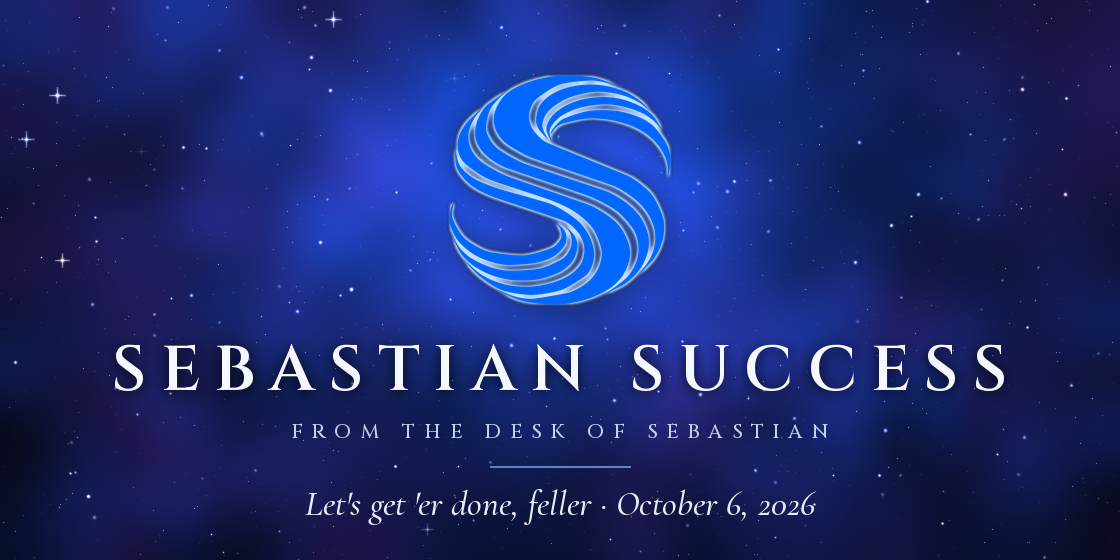
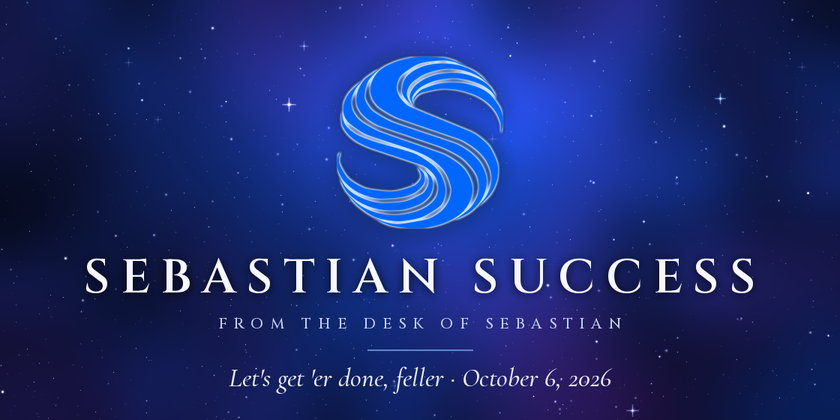
Shrink Sebastian Success email assets so they can be embedded
Flare-based star twinkles and 1.5x output bring the banner from 460 KB
to 115 KB; divider and signature shrink to 17 KB and 4 KB.

Claude-Session: https://claude.ai/code/session_01WdgJS6hTCDwsnRJof5pdmQ

diff --git a/email-templates/sebastian-success/build.py b/email-templates/sebastian-success/build.py
@@ -6,7 +6,7 @@ Renders:
   out/sig.png      handwritten-style signature
 
 Usage:  python3 build.py ["Script line on the banner"]
-Needs Pillow, numpy and ffmpeg. Fonts (all SIL OFL) are fetched once into ./fonts.
+Needs Pillow, numpy and ffmpeg; gifsicle (optional) shrinks the GIFs. Fonts (all SIL OFL) are fetched once into ./fonts.
 """
 import math
 import os
@@ -17,7 +17,7 @@ import tempfile
 import urllib.request
 
 import numpy as np
-from PIL import Image, ImageDraw, ImageFilter, ImageFont
+from PIL import Image, ImageDraw, ImageFilter, ImageFont, ImageOps
 
 HERE = os.path.dirname(os.path.abspath(__file__))
 FONTS = os.path.join(HERE, "fonts")
@@ -31,8 +31,9 @@ FONT_URLS = {
 }
 
 W, H = 1120, 560          # hero rendered at 2x, shown at 560x280
-FRAMES = 36
-FRAME_MS = 70
+FRAMES = 24
+FRAME_MS = 90
+HERO_OUT_W = 840        # 1.5x of the 560px display width; keeps the GIF small enough to embed
 BRAND_BLUE = (5, 102, 255)
 
 
@@ -73,8 +74,8 @@ def space_background(rng):
     t = yy / H
     base += np.stack([4 + 6 * (1 - t), 8 + 10 * (1 - t), 22 + 28 * (1 - t)], -1)
     # nebula clouds: blue and violet, kept faint so text stays crisp
-    n1 = soft_noise(rng, H, W, 90) * soft_noise(rng, H, W, 40)
-    n2 = soft_noise(rng, H, W, 120) * soft_noise(rng, H, W, 50)
+    n1 = soft_noise(rng, H, W, 110) * soft_noise(rng, H, W, 70)
+    n2 = soft_noise(rng, H, W, 140) * soft_noise(rng, H, W, 80)
     base += n1[..., None] * np.array([10, 60, 170], np.float32) * 0.9
     base += n2[..., None] * np.array([90, 30, 140], np.float32) * 0.7
     # glow behind the logo
@@ -112,6 +113,12 @@ def add_sprite(img, x, y, sprite, color, amp):
     img[y0 + ys0:y0 + ys1, x0 + xs0:x0 + xs1] += patch
 
 
+def flare(f, start, dur):
+    """0 outside a star's flare window, a smooth 0->1->0 bump inside it (wraps around the loop)."""
+    p = (f - start) % FRAMES
+    return math.sin(math.pi * (p + 1) / (dur + 1)) ** 2 if p < dur else 0.0
+
+
 def load_logo(size):
     logo = Image.open(LOGO).convert("RGBA")
     logo = logo.crop(logo.getbbox())
@@ -131,22 +138,21 @@ def build_hero(script_line):
 
     star_colors = [(255, 255, 255), (190, 215, 255), (255, 236, 205), (170, 200, 255)]
     twinklers = []
-    for _ in range(170):
+    for _ in range(150):
         twinklers.append(dict(
             x=rng.random() * W, y=rng.random() * H,
             r=0.7 + rng.random() * 0.9,
             col=star_colors[rng.integers(len(star_colors))],
-            base=0.25 + rng.random() * 0.35,
-            amp=0.5 + rng.random() * 0.6,
-            k=int(rng.integers(1, 3)),          # cycles per loop -> seamless
-            ph=rng.random() * 2 * math.pi))
+            base=0.3 + rng.random() * 0.3,
+            amp=0.6 + rng.random() * 0.6,
+            start=int(rng.integers(FRAMES)), dur=int(rng.integers(4, 7))))
     sparkles = []
-    for _ in range(14):
+    for _ in range(16):
         sparkles.append(dict(
             x=rng.random() * W, y=rng.random() * H,
             r=1.3 + rng.random() * 0.8,
             col=star_colors[rng.integers(len(star_colors))],
-            k=1, ph=rng.random() * 2 * math.pi))
+            start=int(rng.integers(FRAMES)), dur=8))
     # keep the brightest sparkles clear of the text block
     sparkles = [s for s in sparkles if not (280 < s["y"] < 500 and 120 < s["x"] < W - 120)]
 
@@ -186,28 +192,28 @@ def build_hero(script_line):
         t = f / FRAMES
         img = bg.copy()
         for s in twinklers:
-            a = s["base"] + s["amp"] * (0.5 + 0.5 * math.sin(2 * math.pi * s["k"] * t + s["ph"])) ** 3
+            a = s["base"] + s["amp"] * flare(f, s["start"], s["dur"])
             add_sprite(img, s["x"], s["y"], star_sprite(s["r"], False), s["col"], a)
         for s in sparkles:
-            a = 0.15 + 0.95 * (0.5 + 0.5 * math.sin(2 * math.pi * t + s["ph"])) ** 4
+            a = 0.2 + 0.9 * flare(f, s["start"], s["dur"])
             add_sprite(img, s["x"], s["y"], star_sprite(s["r"] * (0.8 + 0.5 * a), True), s["col"], a)
-        # shooting star across the upper right, frames 6..18
-        st = (f - 6) / 12
+        # shooting star across the upper right, frames 4..12
+        st = (f - 4) / 8
         if 0 <= st <= 1:
             hx, hy = 760 + 300 * st, 40 + 110 * st
-            for i in range(40):
-                fade = (1 - i / 40) * math.sin(math.pi * st)
-                add_sprite(img, hx - i * 5.2, hy - i * 1.9, star_sprite(0.9, False),
-                           (230, 240, 255), fade * 0.9)
+            for i in range(150):     # dense samples so the trail reads as one streak
+                fade = (1 - i / 150) ** 1.5 * math.sin(math.pi * st)
+                add_sprite(img, hx - i * 1.4, hy - i * 0.51, star_sprite(0.8, False),
+                           (230, 240, 255), fade * 0.45)
             add_sprite(img, hx, hy, star_sprite(1.4, True), (255, 255, 255), math.sin(math.pi * st))
 
         frame = Image.fromarray(np.clip(img, 0, 255).astype(np.uint8)).convert("RGBA")
         frame = Image.alpha_composite(frame, halo)
         frame = Image.alpha_composite(frame, rim)
 
-        # glint sweeping across the logo, frames 20..32
+        # glint sweeping across the logo, frames 14..21
         la = logo_arr.copy()
-        gt = (f - 20) / 12
+        gt = (f - 14) / 7
         if 0 <= gt <= 1:
             yy, xx = np.mgrid[0:logo.height, 0:logo.width].astype(np.float32)
             band = (xx + yy * 0.6) - (gt * (logo.width + logo.height * 0.6 + 120) - 60)
@@ -217,16 +223,16 @@ def build_hero(script_line):
 
         frame = Image.alpha_composite(frame, shadow)
         frame = Image.alpha_composite(frame, text)
-        frames.append(frame.convert("RGB"))
+        frames.append(frame.convert("RGB").resize((HERO_OUT_W, HERO_OUT_W // 2), Image.LANCZOS))
     return frames
 
 
 def build_divider():
-    w, h = 1200, 36
+    w, h = 900, 27     # 1.5x of the 600x18 display size
     rng = np.random.default_rng(3)
     xs = np.linspace(0, 1, w)
-    pts = [(int(rng.random() * w), 0.6 + rng.random() * 0.8, rng.random() * 2 * math.pi)
-           for _ in range(16)]
+    pts = [(int(40 + rng.random() * (w - 80)), 0.7 + rng.random() * 0.8, int(rng.integers(FRAMES)))
+           for _ in range(14)]
     frames = []
     for f in range(FRAMES):
         t = f / FRAMES
@@ -242,8 +248,10 @@ def build_divider():
             img[row] = img[row] * (1 - mix) + col * mix
             img[row] = img[row] + (255 - img[row]) * (glint[:, None] * a * 0.9)
         # tiny four-point sparkles that pulse along the line
-        for x, r, ph in pts:
-            a = (0.5 + 0.5 * math.sin(2 * math.pi * t + ph)) ** 2
+        for x, r, start in pts:
+            a = flare(f, start, 8)
+            if a == 0:
+                continue
             spr = star_sprite(r, True)
             s = spr.shape[0]
             c = s // 2
@@ -258,14 +266,17 @@ def build_divider():
 
 
 def build_signature():
+    """Ink on white (the signature always sits on the white card), quantized to keep it tiny."""
     f = font("Signature.ttf", 120)
-    img = Image.new("RGBA", (900, 170), (255, 255, 255, 0))
+    img = Image.new("RGB", (900, 170), (255, 255, 255))
     d = ImageDraw.Draw(img)
-    d.text((34, 112), "Sebastian Success", font=f, fill=(18, 48, 140, 255), anchor="ls")
-    return img.crop(img.getbbox())
+    d.text((34, 112), "Sebastian Success", font=f, fill=(18, 48, 140), anchor="ls")
+    box = ImageOps.invert(img).getbbox()
+    img = img.crop((box[0] - 4, box[1] - 4, box[2] + 4, box[3] + 4))
+    return img.quantize(colors=24, method=Image.Quantize.MEDIANCUT)
 
 
-def write_gif(frames, path):
+def write_gif(frames, path, lossy=60):
     tmp = tempfile.mkdtemp()
     try:
         for i, fr in enumerate(frames):
@@ -277,8 +288,10 @@ def write_gif(frames, path):
                         "-vf", "palettegen=max_colors=256:stats_mode=full", palette], check=True)
         subprocess.run(["ffmpeg", "-loglevel", "error", "-y", "-framerate", str(fps), "-i", pattern,
                         "-i", palette, "-lavfi",
-                        "paletteuse=dither=bayer:bayer_scale=4:diff_mode=rectangle",
+                        "paletteuse=dither=bayer:bayer_scale=5:diff_mode=rectangle",
                         "-loop", "0", path], check=True)
+        if shutil.which("gifsicle"):
+            subprocess.run(["gifsicle", "-O3", f"--lossy={lossy}", "-b", path], check=True)
     finally:
         shutil.rmtree(tmp)
 
@@ -288,9 +301,9 @@ def main():
     os.makedirs(OUT, exist_ok=True)
     hero = build_hero(script_line)
     write_gif(hero, os.path.join(OUT, "hero.gif"))
-    hero[2].save(os.path.join(OUT, "hero-still.png"))
+    hero[0].save(os.path.join(OUT, "hero-still.png"))
     write_gif(build_divider(), os.path.join(OUT, "divider.gif"))
-    build_signature().save(os.path.join(OUT, "sig.png"))
+    build_signature().save(os.path.join(OUT, "sig.png"), optimize=True)
     for n in ("hero.gif", "divider.gif", "sig.png"):
         print(n, os.path.getsize(os.path.join(OUT, n)) // 1024, "KB")
 
